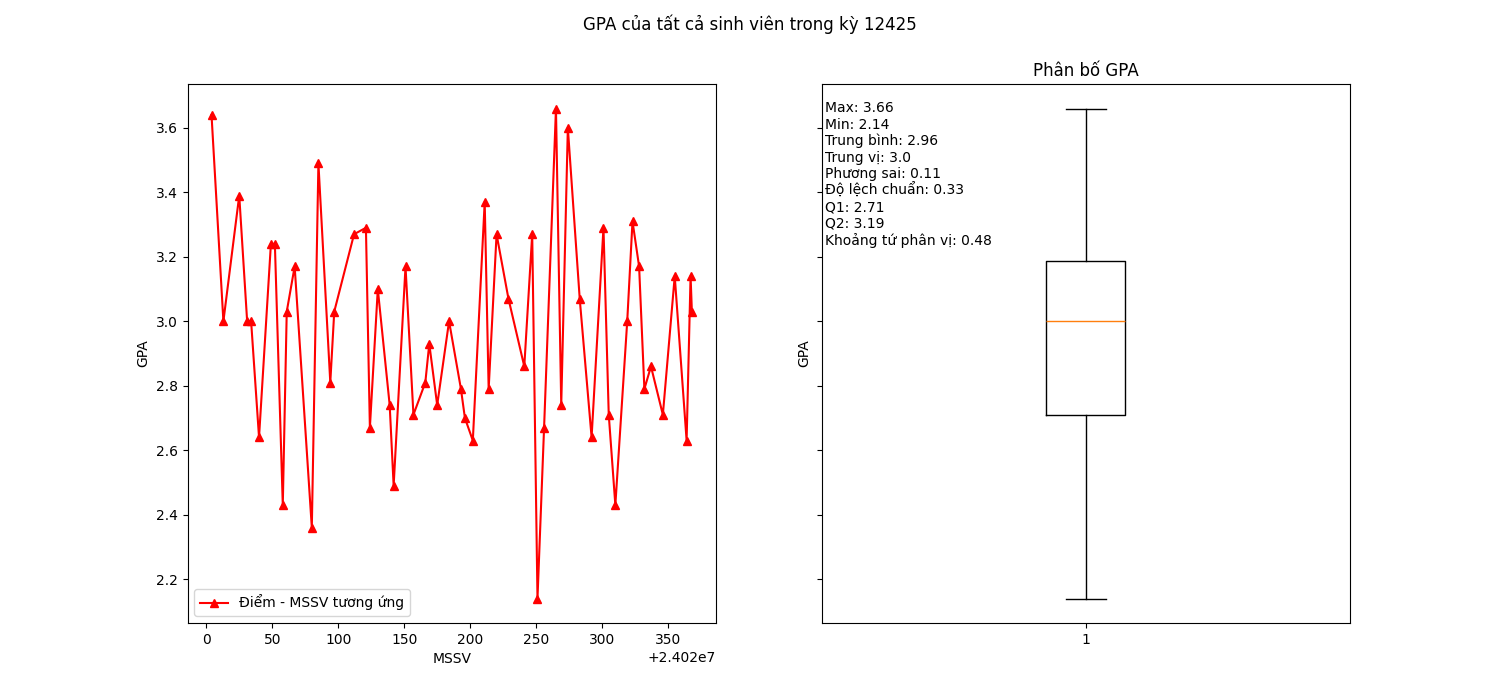
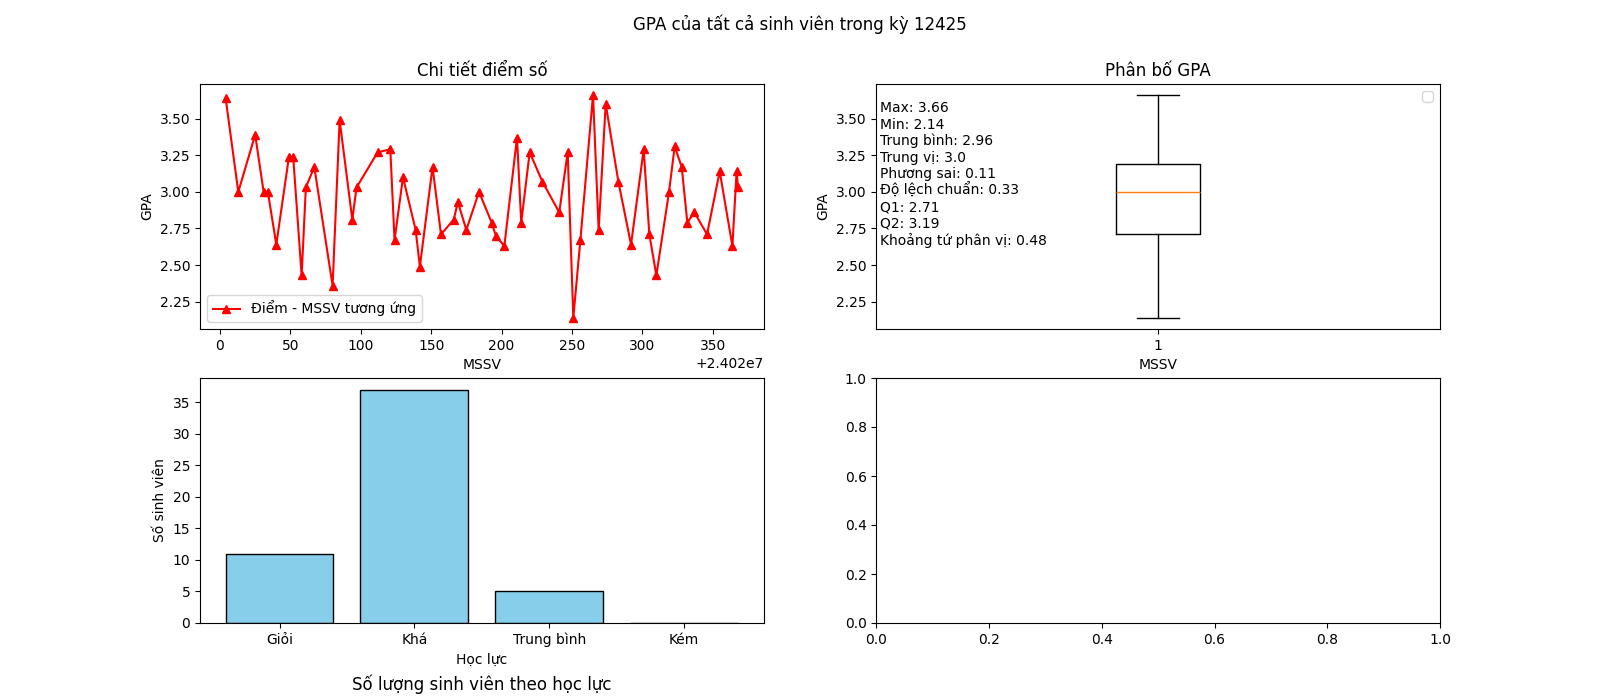
Thêm biểu đồ cột đếm số lượng

diff --git a/libs/draw/draw_chart.py b/libs/draw/draw_chart.py
@@ -1,3 +1,4 @@
+from typing import Counter
 import matplotlib.pyplot as plt
 from libs.database_lib.evaluate_student_lib import *
 
@@ -31,22 +32,38 @@ def draw_chart_each_gpa_of_a_student(MSSV):
     plt.show()
 
 def draw_chart_gpa_of_all_students_a_HocKy(HocKy):
-    fig, (ax1, ax2) = plt.subplots(1, 2, figsize=(15,7), sharey=True)
-    set_figure(fig, f"GPA của tất cả sinh viên trong kỳ {HocKy}")
+    fig, axes = plt.subplots(2, 2, figsize=(16,7))
+    ax1, ax2, ax3, ax4 = axes.flatten()
+
     all_mssv = get_all_MSSV()
     all_gpa_HocKy = [get_gpa_4(mssv, HocKy) for mssv in all_mssv]
+    evaluate = ["Giỏi", "Khá", "Trung bình", "Kém"]
+    all_count_academic_prefomance = Counter([evaluate_academic_perfomance(mssv, HocKy) for mssv in all_mssv])
+    count_evaluate = [all_count_academic_prefomance[ev] for ev in evaluate]
 
+    set_figure(fig, f"GPA của tất cả sinh viên trong kỳ {HocKy}")
     evaluation_text = get_evaluation_text(all_gpa_HocKy)
+    fig.text(0.55, 0.65, evaluation_text)
 
     ax1.plot(all_mssv, all_gpa_HocKy, "r-^", label="Điểm - MSSV tương ứng")
-    fig.text(0.55, 0.65, evaluation_text)
+    ax1.set_title("Chi tiết điểm số")
     ax1.set_xlabel("MSSV")
     ax1.set_ylabel("GPA")
     ax1.legend()
 
     ax2.boxplot(all_gpa_HocKy)
     ax2.set_title("Phân bố GPA")
+    ax2.set_xlabel("MSSV")
     ax2.set_ylabel("GPA")
+    ax2.legend()
+
+    ax3.bar(evaluate, count_evaluate, color="skyblue", edgecolor="black")
+    ax3.set_xlabel("Học lực")
+    ax3.set_ylabel("Số sinh viên")
+    ax3.set_title("")  # xóa title gốc
+    ax3.text(0.5, -0.25, "Số lượng sinh viên theo học lực", ha='center', va='center', transform=ax3.transAxes, fontsize=12)
+
+
 
     fig.savefig(f"./resources/output_images/draw_chart_gpa_of_all_students_a_HocKy_{HocKy}.png")
     plt.show()
